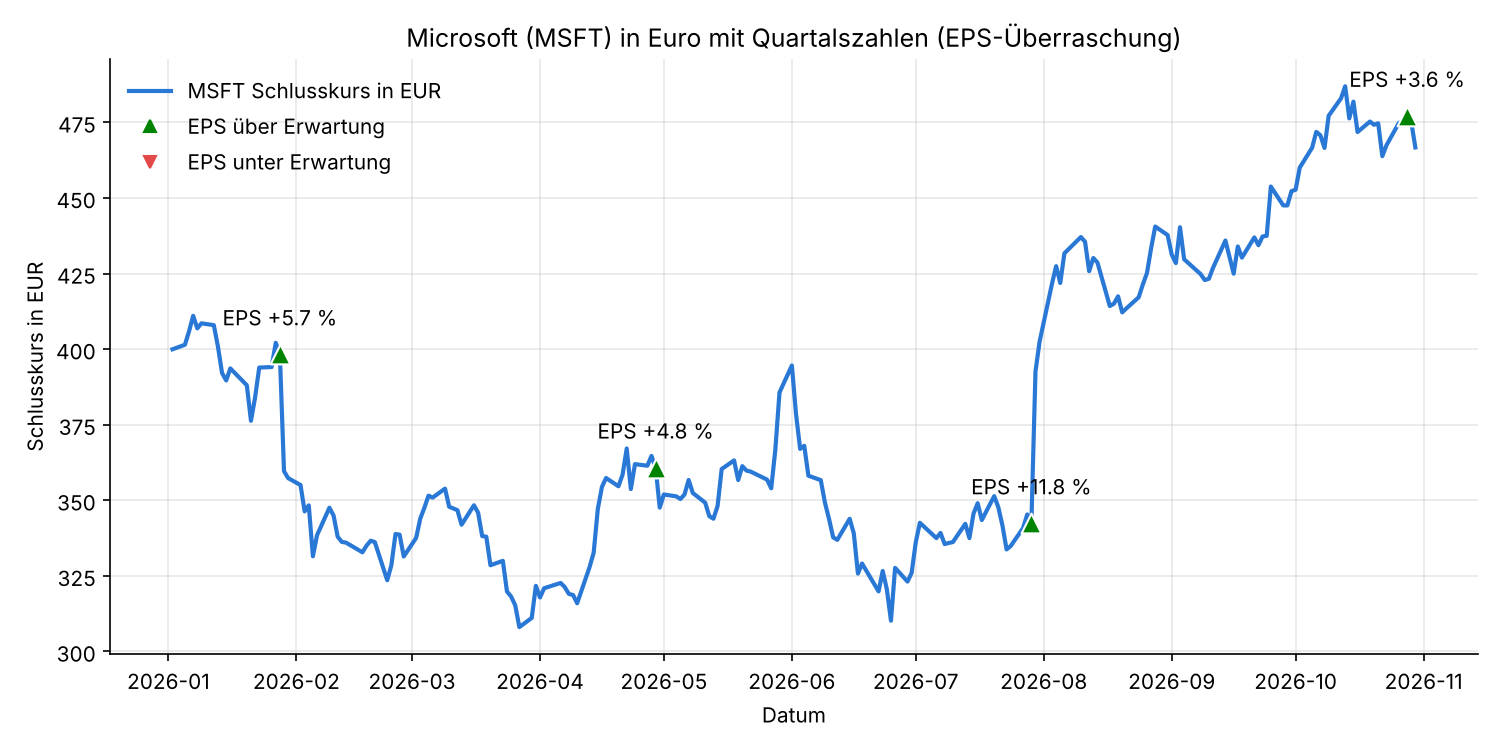
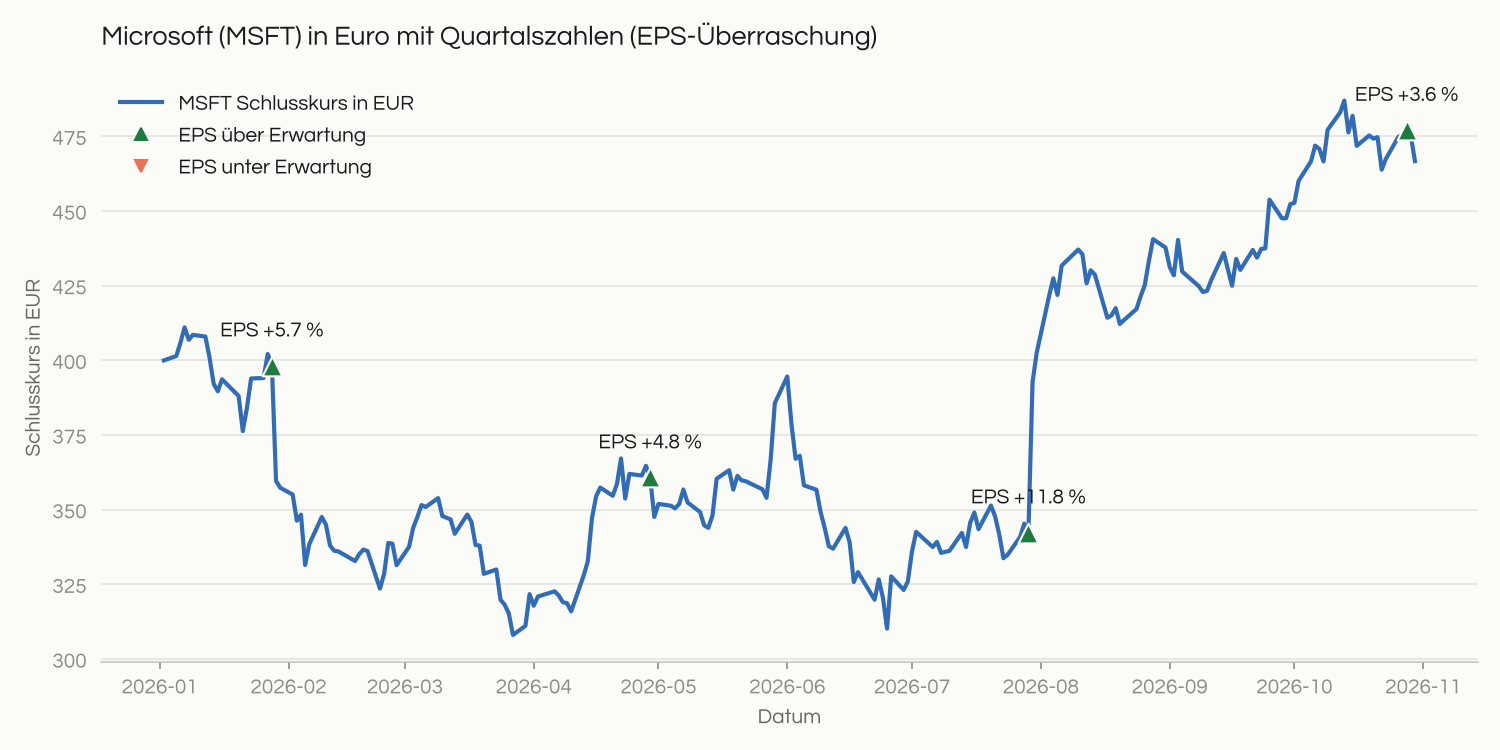
style: apply CI to the three exploration plots
Replace hard-coded hex colors with CI tokens and drop per-plot grid and
spine settings so the central style applies. PNGs re-rendered.

Claude-Session: https://claude.ai/code/session_01XM3y3AidtGho19X7cWqkPJ

diff --git a/data_exploration/02_plot_price_earnings.py b/data_exploration/02_plot_price_earnings.py
@@ -15,14 +15,15 @@ import importlib
 import matplotlib.pyplot as plt
 import pandas as pd
 import yfinance as yf
+from ci import COLORS, FINANCE, NEUTRAL, use_ci
 from matplotlib.lines import Line2D
 
 # Module names starting with a digit cannot be used in an import statement.
 load_msft_eur = importlib.import_module("01_plot_price_eur").load_msft_eur
 
-COLOR = "#2a78d6"
-BEAT = "#008300"
-MISS = "#e34948"
+COLOR = COLORS[1]
+BEAT = FINANCE["up"]
+MISS = FINANCE["down"]
 
 
 def load_earnings(start):
@@ -47,6 +48,7 @@ def plot(price_eur, earnings, path):
     :param path: output PNG path
     :return: None
     """
+    use_ci()
     fig, ax = plt.subplots(figsize=(10, 5))
     ax.plot(price_eur.index, price_eur, color=COLOR, linewidth=2)
     for date, row in earnings.iterrows():
@@ -59,7 +61,7 @@ def plot(price_eur, earnings, path):
             color=BEAT if beat else MISS,
             s=90,
             zorder=3,
-            edgecolors="white",
+            edgecolors=NEUTRAL["surface"],
         )
         ax.annotate(
             f"EPS {row['Surprise(%)']:+.1f} %",
@@ -82,8 +84,6 @@ def plot(price_eur, earnings, path):
     ax.set_title("Microsoft (MSFT) in Euro mit Quartalszahlen (EPS-Überraschung)")
     ax.set_xlabel("Datum")
     ax.set_ylabel("Schlusskurs in EUR")
-    ax.grid(alpha=0.3)
-    ax.spines[["top", "right"]].set_visible(False)
     fig.tight_layout()
     fig.savefig(path, dpi=150)
 

diff --git a/data_exploration/03_plot_cashflow.py b/data_exploration/03_plot_cashflow.py
@@ -11,12 +11,13 @@ Usage::
 
 import matplotlib.pyplot as plt
 import yfinance as yf
+from ci import COLORS, use_ci
 
-# Categorical colors in fixed order (blue, orange, aqua), light-surface variants.
+# CI categorical colors in fixed order (forest, blue, copper).
 SERIES = [
-    ("Operating Cash Flow", "Operativer Cashflow", "#2a78d6"),
-    ("Capital Expenditure", "Capex (Investitionen)", "#eb6834"),
-    ("Free Cash Flow", "Free Cashflow", "#1baf7a"),
+    ("Operating Cash Flow", "Operativer Cashflow", COLORS[0]),
+    ("Capital Expenditure", "Capex (Investitionen)", COLORS[1]),
+    ("Free Cash Flow", "Free Cashflow", COLORS[2]),
 ]
 
 
@@ -51,6 +52,7 @@ def plot(cashflow, path):
     :param path: output PNG path
     :return: None
     """
+    use_ci()
     fig, ax = plt.subplots(figsize=(10, 5))
     width = 0.27
     positions = range(len(cashflow))
@@ -64,9 +66,6 @@ def plot(cashflow, path):
     ax.set_title("Microsoft (MSFT): Cashflow und Investitionen pro Quartal")
     ax.set_xlabel("Fiskalquartal (Geschäftsjahr endet im Juni) und Quartalsende")
     ax.set_ylabel("Mrd. USD")
-    ax.grid(axis="y", alpha=0.3)
-    ax.set_axisbelow(True)
-    ax.spines[["top", "right"]].set_visible(False)
     ax.legend(frameon=False, loc="upper left")
     fig.tight_layout()
     fig.savefig(path, dpi=150)

diff --git a/data_exploration/01_plot_price_eur.py b/data_exploration/01_plot_price_eur.py
@@ -10,8 +10,10 @@ Usage::
 
 import matplotlib.pyplot as plt
 import yfinance as yf
+from ci import COLORS, use_ci
 
-COLOR = "#2a78d6"
+# MSFT keeps slot 2 (blue) in every chart, AAPL slot 1.
+COLOR = COLORS[1]
 
 
 def load_msft_eur():
@@ -34,6 +36,7 @@ def plot(price_eur, path):
     :param path: output PNG path
     :return: None
     """
+    use_ci()
     fig, ax = plt.subplots(figsize=(10, 5))
     ax.plot(price_eur.index, price_eur, color=COLOR, linewidth=2)
     ax.annotate(
@@ -46,8 +49,6 @@ def plot(price_eur, path):
     ax.set_title("Microsoft (MSFT) in Euro, Jahresbeginn bis heute")
     ax.set_xlabel("Datum")
     ax.set_ylabel("Schlusskurs in EUR")
-    ax.grid(alpha=0.3)
-    ax.spines[["top", "right"]].set_visible(False)
     fig.tight_layout()
     fig.savefig(path, dpi=150)
 
